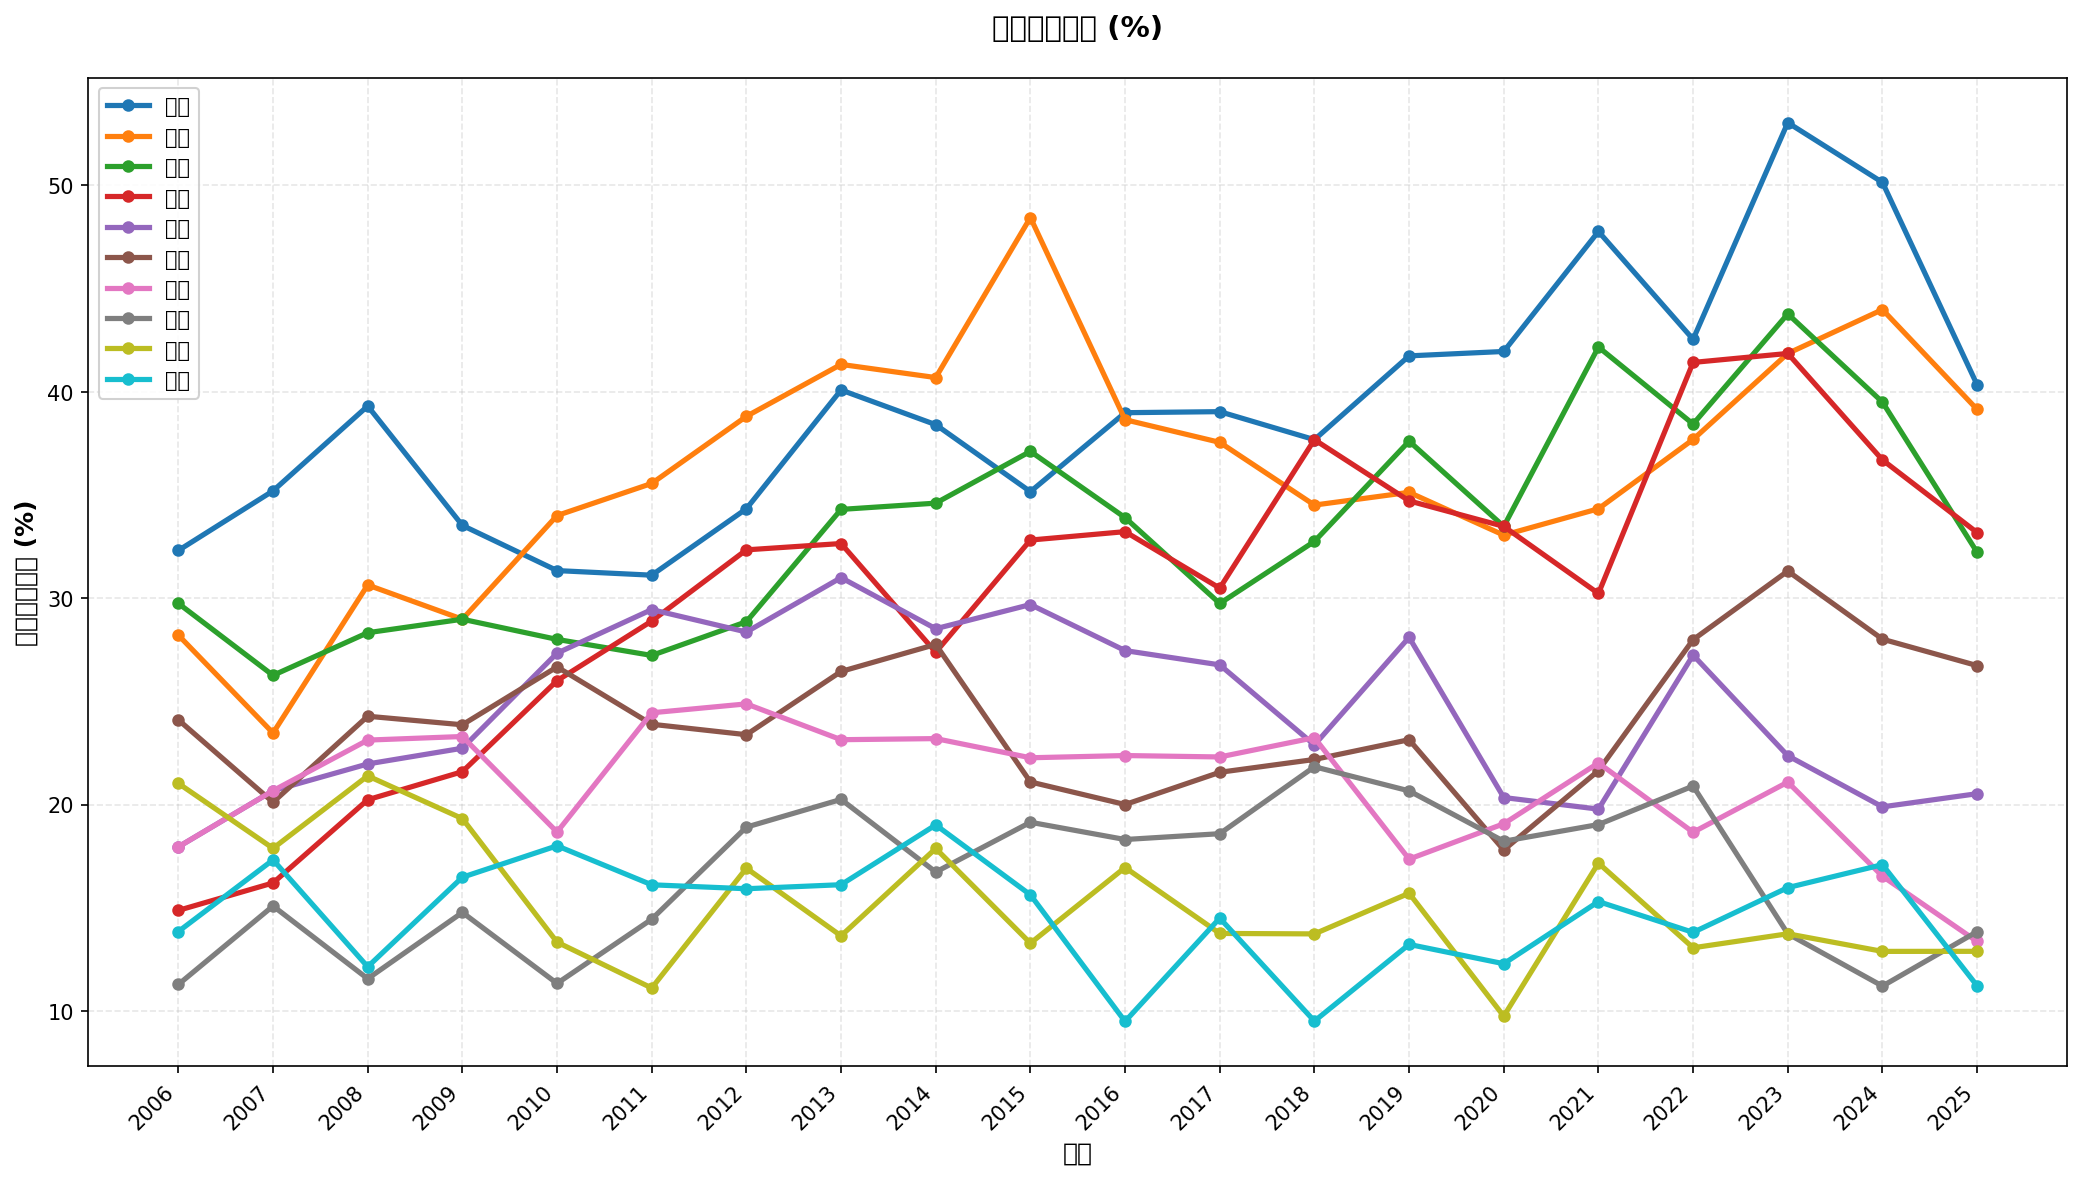
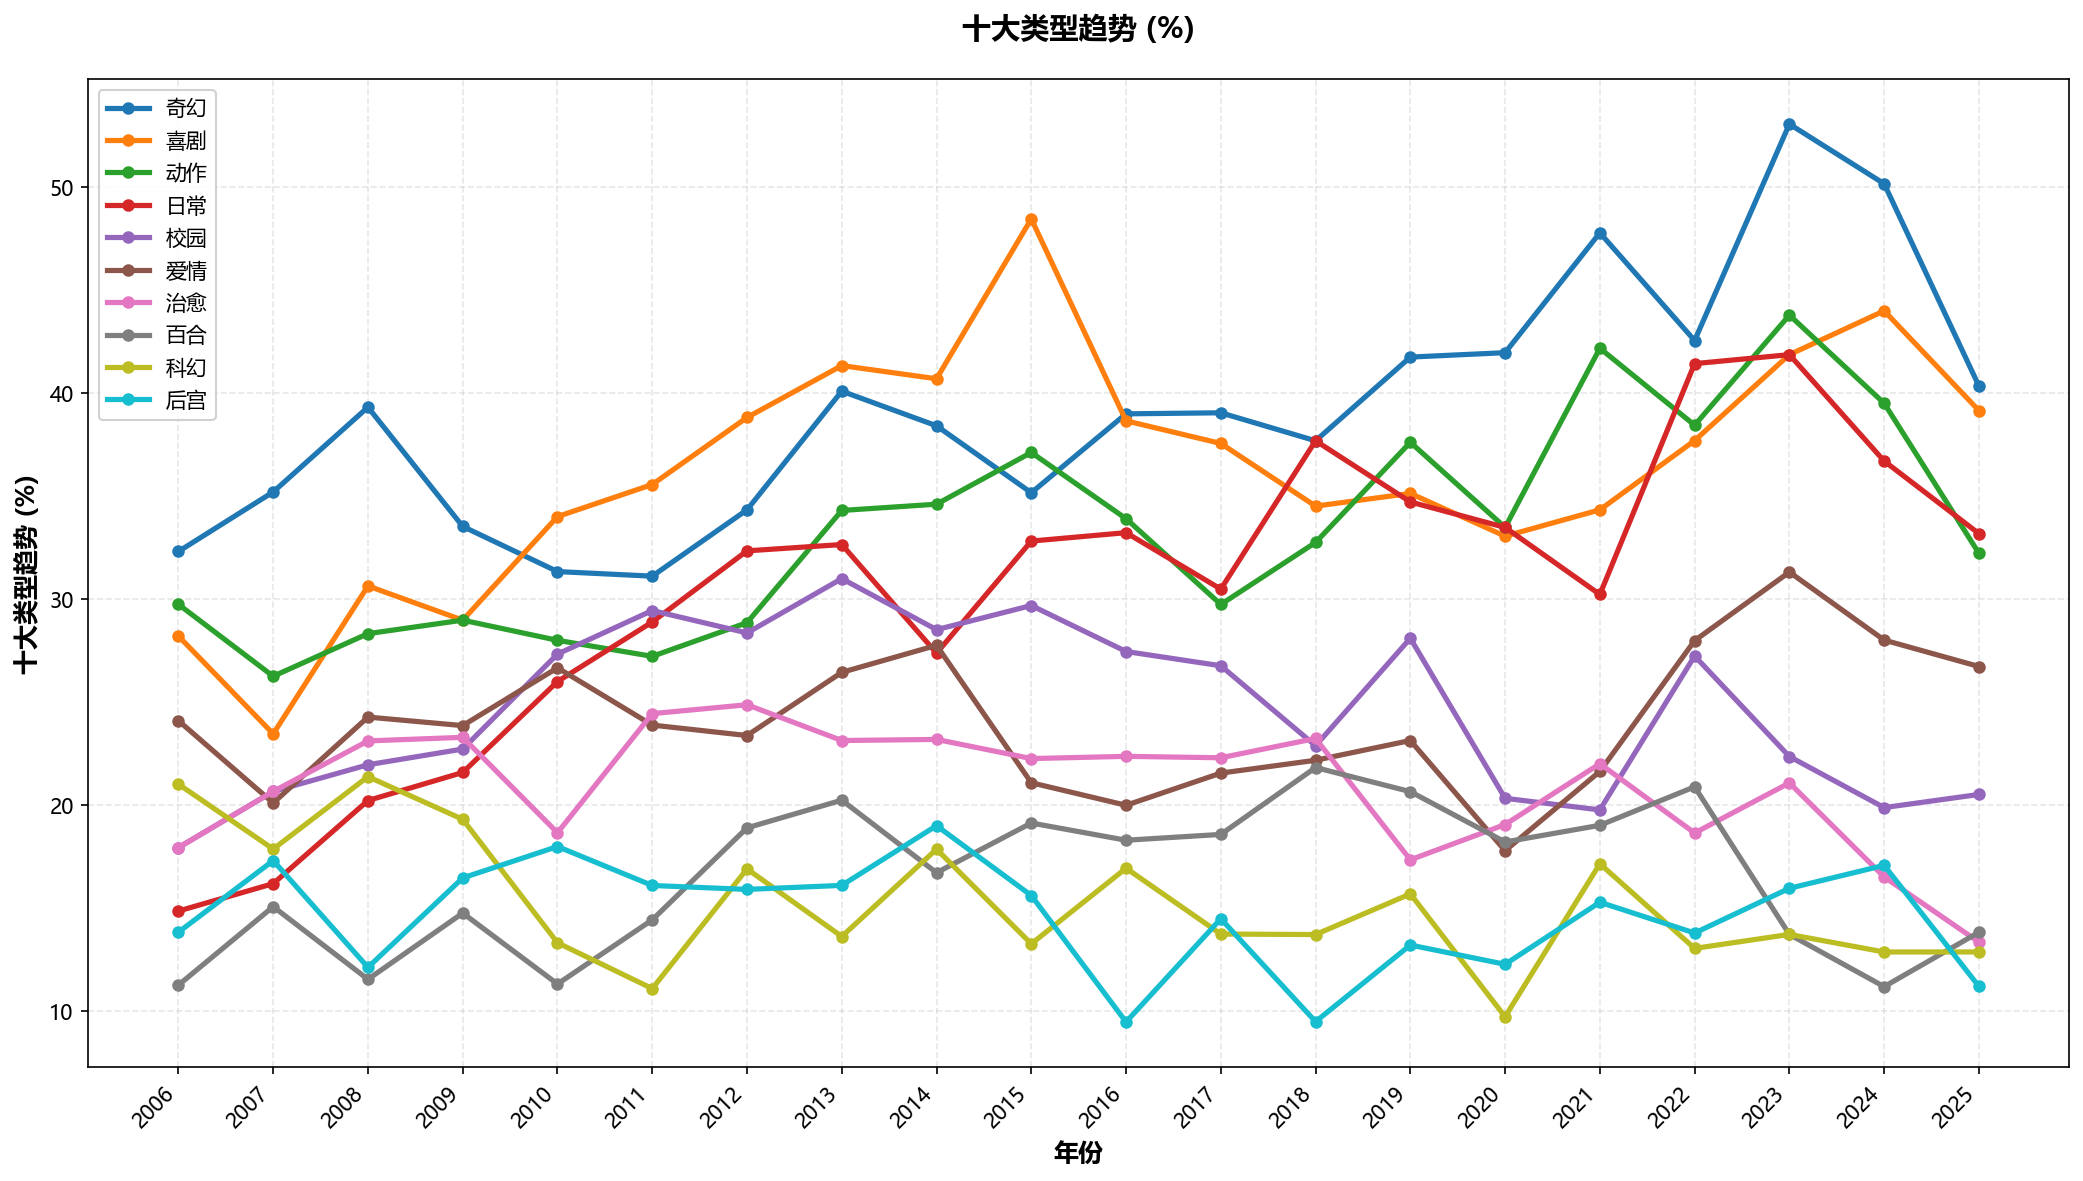
fix chinese font display issue

diff --git a/generate_graphs.py b/generate_graphs.py
@@ -7,10 +7,12 @@ import json
 import pathlib
 import matplotlib.pyplot as plt
 import matplotlib.dates as mdates
+import matplotlib.font_manager as fm
 from datetime import datetime
 from collections import defaultdict, Counter
 import statistics
 import argparse
+import platform
 
 # Parse arguments
 parser = argparse.ArgumentParser(description='Generate anime data visualizations.')
@@ -82,13 +84,82 @@ TRANSLATIONS = {
 TEXT = TRANSLATIONS[args.lang]
 
 # Font Configuration for Chinese
+def setup_chinese_font():
+    """Setup Chinese/Japanese font support for matplotlib."""
+    # Font candidates in order of preference
+    font_candidates = [
+        'Microsoft YaHei',      # Windows Chinese font
+        'SimHei',               # Windows Chinese font (bold)
+        'SimSun',               # Windows Chinese font
+        'STSong',               # Mac Chinese font
+        'STHeiti',              # Mac Chinese font
+        'Arial Unicode MS',     # Cross-platform Unicode font
+        'Noto Sans CJK SC',     # Google Noto font (if installed)
+        'Noto Sans CJK TC',     # Google Noto font (Traditional)
+        'Noto Sans CJK JP',     # Google Noto font (Japanese)
+        'WenQuanYi Micro Hei',  # Linux Chinese font
+        'WenQuanYi Zen Hei',    # Linux Chinese font
+    ]
+    
+    # Get all available fonts (create a set for faster lookup)
+    available_fonts = {f.name for f in fm.fontManager.ttflist}
+    
+    # Find first available CJK font
+    selected_font = None
+    for font_name in font_candidates:
+        if font_name in available_fonts:
+            selected_font = font_name
+            print(f"  Using font: {font_name}")
+            break
+    
+    if selected_font:
+        # Set the font explicitly as the first choice
+        plt.rcParams['font.sans-serif'] = [selected_font] + [f for f in plt.rcParams['font.sans-serif'] if f != selected_font]
+        plt.rcParams['font.serif'] = [selected_font] + [f for f in plt.rcParams['font.serif'] if f != selected_font]
+    else:
+        # Try to find any font that might support CJK by checking font properties
+        print("  Warning: No standard CJK font found, searching for alternatives...")
+        cjk_fonts = []
+        cjk_keywords = ['cjk', 'chinese', 'japanese', 'korean', 'han', 'yahei', 'simhei', 'simsun', 'noto', 'wenquanyi', 'microsoft yahei']
+        for font in fm.fontManager.ttflist:
+            font_name_lower = font.name.lower()
+            # Check if font name contains CJK-related keywords
+            if any(keyword in font_name_lower for keyword in cjk_keywords):
+                cjk_fonts.append(font.name)
+        
+        if cjk_fonts:
+            selected_font = cjk_fonts[0]
+            print(f"  Using alternative font: {selected_font}")
+            plt.rcParams['font.sans-serif'] = [selected_font] + [f for f in plt.rcParams['font.sans-serif'] if f != selected_font]
+        else:
+            print("  Warning: No CJK-capable font found! Chinese/Japanese text may display as boxes.")
+            print("  Consider:")
+            print("    1. Installing a CJK font like 'Noto Sans CJK SC'")
+            print("    2. Rebuilding matplotlib font cache: python -c 'import matplotlib.font_manager; matplotlib.font_manager._rebuild()'")
+    
+    # Fix minus sign display
+    plt.rcParams['axes.unicode_minus'] = False
+    # Better math rendering
+    plt.rcParams['mathtext.fontset'] = 'stix'
+    
+    # Force matplotlib to use the selected font
+    if selected_font:
+        # Set default font family for all text
+        plt.rcParams['font.family'] = 'sans-serif'
+        # Ensure the font is used
+        try:
+            # Test if the font can render Chinese characters
+            test_font = fm.findfont(fm.FontProperties(family=selected_font))
+            if test_font:
+                print(f"  Font file found: {test_font}")
+        except Exception as e:
+            print(f"  Warning: Could not verify font file: {e}")
+    
+    return selected_font
+
 if args.lang == 'cn':
-    # Try Chinese fonts in order of preference
-    plt.rcParams['font.sans-serif'] = ['Microsoft YaHei', 'SimHei', 'STSong', 'STHeiti', 'Arial Unicode MS', 'sans-serif']
-    plt.rcParams['axes.unicode_minus'] = False  # Fix minus sign display
-    # Increase font rendering quality
-    plt.rcParams['font.serif'] = ['Microsoft YaHei', 'SimHei', 'STSong', 'serif']
-    plt.rcParams['mathtext.fontset'] = 'stix'  # Better math rendering
+    print("Configuring Chinese/Japanese font support...")
+    setup_chinese_font()
 
 def load_all_anime_data():
     """Load all anime data from JSON files."""
